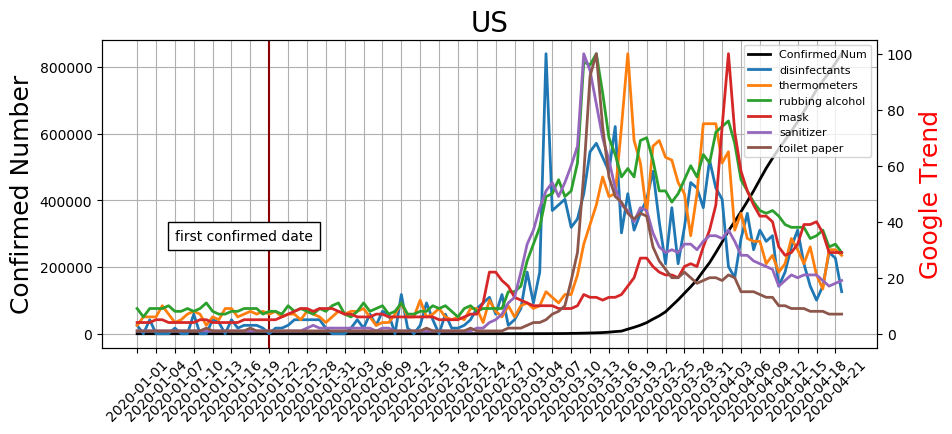
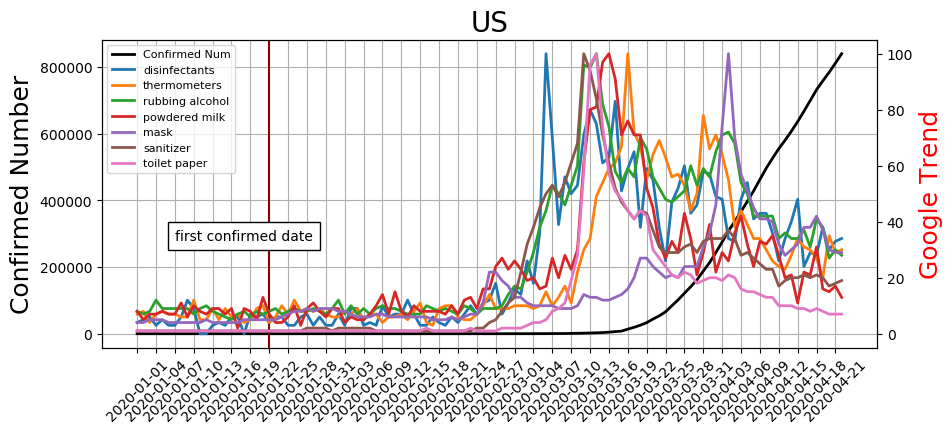
Revise plot function and the plot outcomes

Changed region(s): [[0.1218, 0.0899, 0.9139, 0.7788], [0.1218, 0.0899, 0.2437, 0.3894]]

diff --git a/IS590PR_Final.py b/IS590PR_Final.py
@@ -492,7 +492,7 @@ def plot_items_with_confirmed_case(region_df: pd.DataFrame, item_name_list: list
     ax2.set_ylabel('Google Trend', fontsize=18, color="Red")
     lines, labels = ax.get_legend_handles_labels()
     lines2, labels2 = ax2.get_legend_handles_labels()
-    ax2.legend(lines + lines2, labels + labels2, loc=0, fontsize=8)
+    ax2.legend(lines + lines2, labels + labels2, fontsize=8, loc='upper left')
 
     file_path = os.getcwd() + Constant.GT_FIGURE_NAME_PREFIX + region + '_' + \
                 Constant.GT_FIGURE_WITH_COMFIRMED_CASE + '.png'
